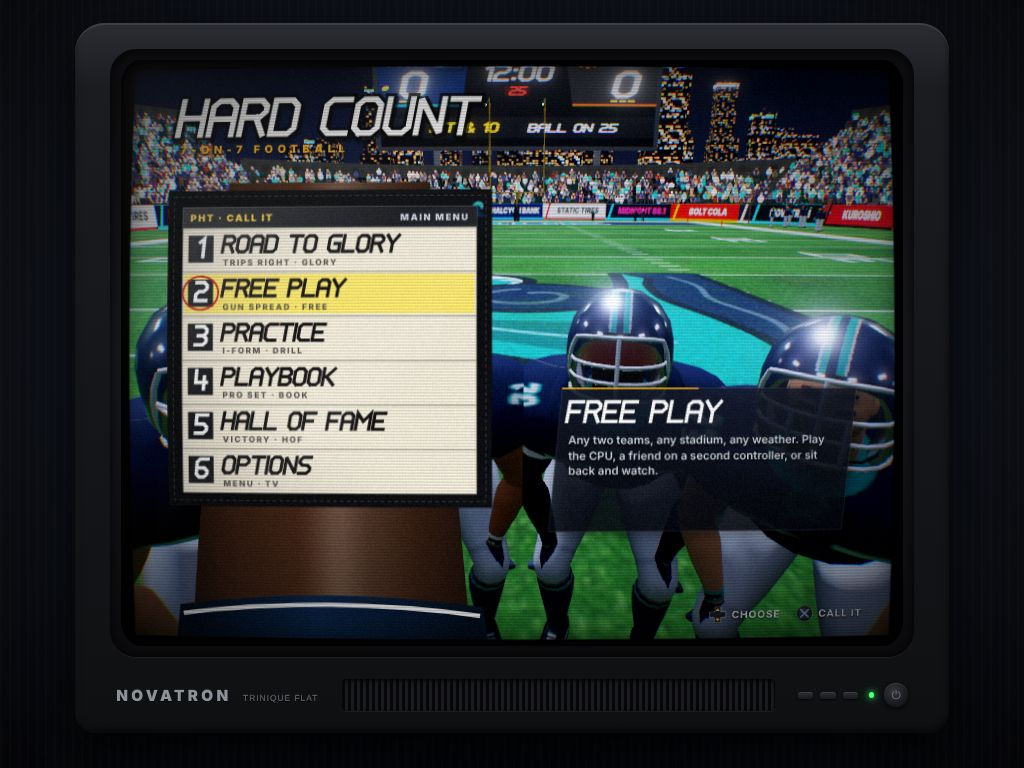
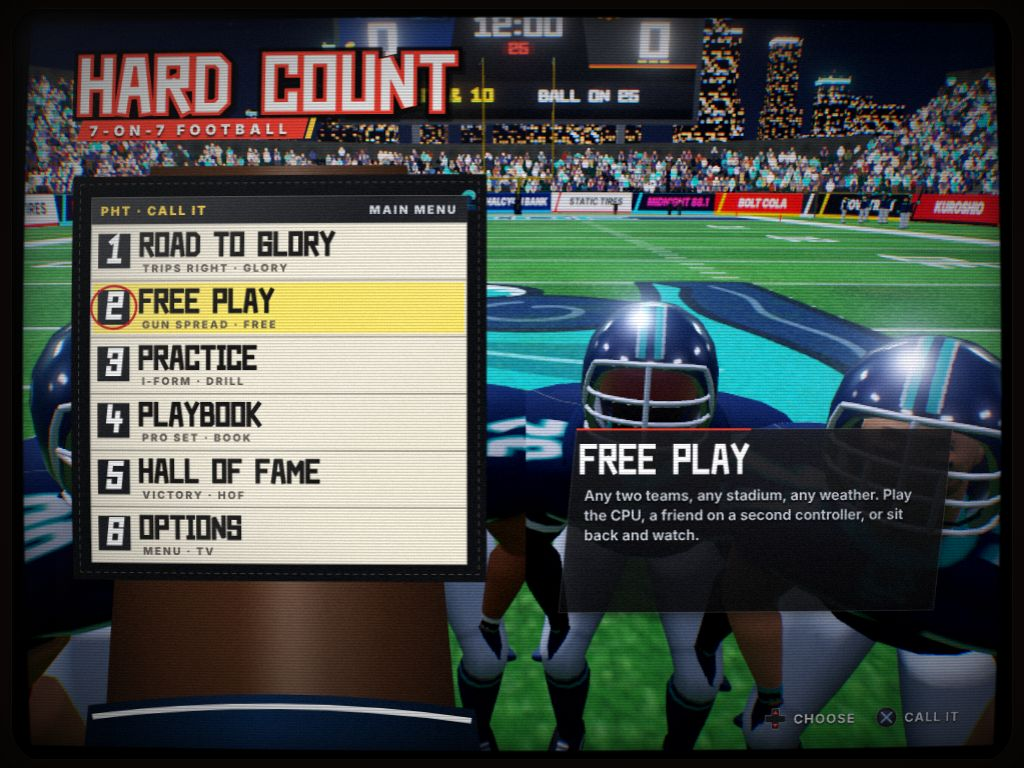
HARD COUNT: jersey-twill titles and red tags across the menus, rounded high-top, docs and screenshots for the new look
The Road to Glory creator's title goes in jersey twill under a red tag like
the main menu (tag() in the UI kit); the high-top haircut's top meets its
sides in a rounded edge instead of a box corner. README and DESIGN describe
the bare picture tube, the block face and red/gold, the builds (muscle,
pads, faces), the animation rules and the frame-stepping QA steps; every
screenshot retaken.

Claude-Session: https://claude.ai/code/session_0116zGsvDfHdybe5p86W6fiG

diff --git a/hardcount/src/screens/huddle.js b/hardcount/src/screens/huddle.js
@@ -5,7 +5,7 @@ import * as THREE from 'three';
 import { registerScreen, game, go } from '../main.js';
 import { input } from '../core/input.js';
 import { settings, store } from '../core/settings.js';
-import { C, vText, vWidth, text, hints, panel, padGlyph, usingPad, keyCap, paragraph, twill } from '../core/ui.js';
+import { C, vText, vWidth, text, hints, panel, padGlyph, usingPad, keyCap, paragraph, twill, tag } from '../core/ui.js';
 import { uiSound } from '../core/menu.js';
 import { clamp, easeOutBack, easeOutCubic } from '../core/util.js';
 import { getTeam, TEAMS } from '../data/teams.js';
@@ -170,12 +170,7 @@ registerScreen('huddle', () => {
       ctx.save();
       ctx.globalAlpha = 1 - out;
       twill(ctx, 'HARD COUNT', 64, 96, 50, { spacing: 2 });
-      // the tag under it, like a network bug
-      ctx.fillStyle = C.accent;
-      ctx.beginPath(); ctx.moveTo(62, 108); ctx.lineTo(268, 108); ctx.lineTo(262, 128); ctx.lineTo(56, 128); ctx.closePath(); ctx.fill();
-      ctx.fillStyle = C.gold;
-      ctx.fillRect(268, 108, 6, 20);
-      text(ctx, '7-ON-7 FOOTBALL', 70, 124, { size: 15, weight: 900, color: '#ffffff', spacing: 5 });
+      tag(ctx, '7-ON-7 FOOTBALL', 62, 108);
       ctx.restore();
       // the arm and the band, raised into view
       const ax = 52, ay = 168 + (1 - k) * 520 + out * 520;

diff --git a/hardcount/src/screens/career.js b/hardcount/src/screens/career.js
@@ -7,7 +7,7 @@ import * as THREE from 'three';
 import { registerScreen, game, go } from '../main.js';
 import { input } from '../core/input.js';
 import { settings } from '../core/settings.js';
-import { C, vText, vWidth, text, hints, panel, padGlyph, usingPad, keyCap, paragraph, roundRect, statBar } from '../core/ui.js';
+import { C, vText, vWidth, text, hints, panel, padGlyph, usingPad, keyCap, paragraph, roundRect, statBar, twill, tag } from '../core/ui.js';
 import { uiSound } from '../core/menu.js';
 import { clamp, easeOutCubic, easeOutBack, makeRng, hashString } from '../core/util.js';
 import { getTeam, HS_RIVALS, COLLEGES } from '../data/teams.js';
@@ -320,8 +320,8 @@ registerScreen('career', () => {
 
   function drawCreate(ctx) {
     const p = cr.p;
-    vText(ctx, 'ROAD TO GLORY', 64, 84, 38, { color: '#ffffff', weight: 0.17, outline: 3, outlineColor: 'rgba(0,0,0,0.75)', shadow: [3, 4, 'rgba(0,0,0,0.6)'] });
-    text(ctx, 'FRIDAY NIGHT · WHO ARE YOU?', 68, 108, { size: 13, weight: 900, color: C.accent, spacing: 4 });
+    twill(ctx, 'ROAD TO GLORY', 64, 86, 40, { spacing: 1 });
+    tag(ctx, 'FRIDAY NIGHT · WHO ARE YOU?', 62, 97, { size: 13 });
     // the panel
     const px = 560, py = 118, pw = 420;
     panel(ctx, px, py, pw, 376, { accentLen: 200, alpha: 0.95 });

diff --git a/hardcount/src/core/ui.js b/hardcount/src/core/ui.js
@@ -128,6 +128,21 @@ export function twill(ctx, str, x, y, size, opts = {}) {
   vText(ctx, str, x, y, size, { ...base, color: opts.color || '#ffffff', outline: size * 0.075, outlineColor: opts.trim || C.accent });
 }
 
+/** A red tag with white type under a title, like a network bug; returns its width. */
+export function tag(ctx, str, x, y, opts = {}) {
+  const size = opts.size || 15;
+  const w = measure(ctx, str, { size, weight: 900, spacing: 5 }) + 26;
+  const h = size + 7;
+  ctx.save();
+  ctx.fillStyle = opts.color || C.accent;
+  ctx.beginPath(); ctx.moveTo(x, y); ctx.lineTo(x + w, y); ctx.lineTo(x + w - 6, y + h); ctx.lineTo(x - 6, y + h); ctx.closePath(); ctx.fill();
+  ctx.fillStyle = C.gold;
+  ctx.beginPath(); ctx.moveTo(x + w + 2, y); ctx.lineTo(x + w + 8, y); ctx.lineTo(x + w + 2, y + h); ctx.lineTo(x + w - 4, y + h); ctx.closePath(); ctx.fill();
+  ctx.restore();
+  text(ctx, str, x + 8, y + h - 5, { size, weight: 900, color: '#ffffff', spacing: 5 });
+  return w;
+}
+
 /** Two sleeve stripes under a title: red, then a thin gold one. */
 export function stripes(ctx, x, y, w, opts = {}) {
   ctx.save();

diff --git a/hardcount/src/gfx/player/hair.js b/hardcount/src/gfx/player/hair.js
@@ -51,7 +51,10 @@ function thickness(style, lam, phi, x, y, z) {
       const F = flatBox();
       const len = Math.hypot(x, y, z);
       const dy = y / len, dr = Math.hypot(x, z * 0.92) / len;
-      const d = Math.min(dy > 0.02 ? F.top / dy : 9, dr > 0.02 ? F.side / dr : 9);
+      // a soft minimum of the two: the top meets the sides in a rounded edge, not a box corner
+      const a = dy > 0.02 ? F.top / dy : 9, b = dr > 0.02 ? F.side / dr : 9, k = 0.011;
+      const m = Math.min(a, b);
+      const d = m - k * Math.log(Math.exp(-(a - m) / k) + Math.exp(-(b - m) / k));
       return clamp(d - len, 0.004, 0.075) * sstep(-8, 22, phi) + 0.002;
     }
     case 'mohawk': return 0.001 + 0.042 * Math.exp(-((x / 0.017) ** 2)) * sstep(-25, 25, phi + (z < 0 ? 25 : 0));

diff --git a/hardcount/DESIGN.md b/hardcount/DESIGN.md
@@ -1,23 +1,35 @@
 # HARD COUNT — design notes and module contracts
 
 HARD COUNT is a 7-on-7 tackle football game in the style of a 2003–2007 console
-football game, played on the same NOVATRON CRT TV in a dark room as MIDNIGHT
-FREQUENCY. Full pads, real contact, real ball physics, laterals as a core
-mechanic. Plain ES modules + three.js r160 (`../vendor/three.module.js`), no
+football game, shown on the same CRT picture as MIDNIGHT FREQUENCY, with the
+set's cabinet taken off: a bare 4:3 tube as big as the window allows. It has
+its own identity on top: varsity block lettering, HARD COUNT red and broadcast
+gold. Full pads, real contact, real ball physics, laterals as a core mechanic. Plain ES modules + three.js r160 (`../vendor/three.module.js`), no
 build step, no art or audio files: everything is generated in code.
 
 ## Look and feel
 
-- **The TV.** The 3D picture renders at a CRT-ish internal resolution (480/600/720
+- **The picture.** The page (`index.html`, `style.css`) is only the tube: 4:3,
+  as tall as the window (letterboxed on wide screens), rounded tube corners,
+  curved glass with an edge shadow and a glare, the screen's light on the wall
+  behind it. The 3D picture renders at a CRT-ish internal resolution (480/600/720
   lines, 4:3) into an HDR target, then bloom and the CRT pass (curvature,
   aberration, ACES, grading, scanlines, aperture grille, snow, tearing, vignette).
-  The 2D UI is drawn into a 1024×768 canvas that goes *under the glass*, so menus
-  get the same curvature and scanlines. Screen changes are channel changes
-  (static bursts). See `src/core/renderer.js`, `src/main.js`.
+  The bloom chain and the final pass drop NaN/Inf texels, tested by their bit
+  pattern (`x == x` gets optimised away by some shader compilers). The 2D UI is
+  drawn into a 1024×768 canvas that goes *under the glass*, so menus get the same
+  curvature and scanlines. Screen changes are channel changes (static bursts).
+  See `src/core/renderer.js`, `src/main.js`.
 - **The UI kit** (`src/core/ui.js`, `src/core/font.js`): slanted smoked-glass
-  panels, amber `#ffb21e` / cyan `#46e8ff` accents, the chamfered italic stroke
-  font (`vText`) for titles and numbers, Bahnschrift-style body text, PlayStation
-  glyphs that switch to keyboard keycaps when the keyboard is in use.
+  panels in graphite, HARD COUNT red `#ff3a2c` / broadcast gold `#ffd23a`
+  accents, and for titles and numbers the varsity block stroke font (`vText`):
+  condensed, heavy, upright, square-cornered, the jersey and end zone lettering.
+  Titles go in jersey twill (`twill`: white letters, red tackle-twill border,
+  black edge) with a red network-bug `tag` under them; headers sit on two sleeve
+  `stripes`. Body text is a condensed sports gothic (Franklin Gothic on Windows,
+  Arial Narrow on macOS). PlayStation glyphs switch to keyboard keycaps when the
+  keyboard is in use. The resemblance to MIDNIGHT FREQUENCY is the picture, the
+  panels and the menu language; the type and the colours are HARD COUNT's own.
 - **Graphics target:** a good-looking 2005 console game, not a modern one.
   Chunky but well-proportioned bodies, glossy helmets catching the floodlights,
   real team colours, readable numbers, painted fields with wear, crowds that move,
@@ -34,7 +46,7 @@ build step, no art or audio files: everything is generated in code.
 
 ```
 hardcount/
-  index.html, style.css     the TV set (same as MIDNIGHT FREQUENCY)
+  index.html, style.css     the bare picture tube
   src/main.js               loop, screen manager, transitions, auto quality
   src/core/                 renderer, input, ui, font, menu, settings, util, envmap
   src/audio/                audio core, sfx, crowd, music engine + themes, voice
@@ -100,10 +112,38 @@ the `ACTIONS` with their durations and key moments (ball release, catch,
 contact). The sim owns timing: `A.action.t` is the time since the action began.
 Locomotion (walk → jog → run → sprint, backpedal, shuffle, carrying) is
 synthesised from `speed`, `moveAngle`, `accel`, `turnRate` and `effort`, with
-the stride phase driven by distance travelled so feet don't skate.
+the stride phase driven by distance travelled so feet don't skate:
 
-Budgets: ≤ 6 draw calls and ~6k triangles per player at `high`, ≤ 3 calls /
-~2k triangles at `low`; ≤ 24 bones; one ≤ 512² uniform atlas per player plus a
+- **Arms** swing fore and aft from the shoulder (`armFlex`): the upper arm's
+  twist follows its plane so the elbow hinge stays level and the forearm never
+  folds across the chest or flares out; bent tight at the front of the swing,
+  opening behind, the hands converging toward the sternum but never past it.
+- **Legs**: planted feet stay put in the world, yaw included; the swing foot
+  flies a keyed path (walk, jog, sprint, low shuffle, blended by gait): toe-off,
+  the heel recovering up under the hips, the knee driving through, the reach and
+  the paw back down under the body.
+- **Trunk**: leans into acceleration, banks into a real turn as much as the
+  lateral grip asks (from the travel direction's smoothed turn, with a deadzone,
+  never from heading jitter), drops on a hard cut; the head is stabilised.
+- **No arms through the body**: after the IK the animator pushes the elbows,
+  forearms, wrists and hands out of the jersey (`dims.torso`, the build's own
+  cross-sections from `torsoProfile`) and re-solves the arm, eased in by depth.
+
+**Builds.** `makeBuild(player)` reads height, weight, `look.bodyType` and three
+look fields every roster player has (drawn from the player's own seed, so they
+never shift names, ratings or ids; Road to Glory players pick the first two):
+`look.muscle` 0..1 (arm, leg, neck and chest girth, and the definition of the
+biceps, triceps, forearms and calves), `look.pads` 0..1 (slim skill pads → big
+lineman pads: width, depth and how tall the arch stands) and `look.face`
+`{ jaw, chin, nose, brow, cheek, len }` each −1..1 (the face below the brow only:
+the cranium the hair and helmet sit on never changes). The jersey sleeve is
+geometry, stretched over the pad cap down to a hem just below the pads
+(`SLEEVE_HEM`, shared with the painter); the collar is a V-neck under a visible
+neck. Heads have real facial thirds and a dense face grid; the painted features
+ride on the (λ, φ) grid so paint and shape always agree.
+
+Budgets: ≤ 6 draw calls and ~7.5k triangles per player at `high` (the face
+grid is most of the growth), ≤ 3 calls / ~2k triangles at `low`; ≤ 24 bones; one ≤ 512² uniform atlas per player plus a
 shared helmet decal per team. 14 players + 3 officials + sideline extras must
 hold 60 fps on a mid-range laptop at 600 lines.
 
@@ -246,3 +286,9 @@ the game, adds XP and texts, sims the rest of the week and advances the season.
   headless Chromium (software WebGL, ~7 fps: timing-sensitive steps should use
   `until`). `{ dualsense: true }` plugs in a virtual DualSense whose presses are
   held until the game has polled them; rumble lands in `window.__rumbles`.
+  `{ manual: true }` switches the game to deterministic frames, advanced with
+  `{ frames: n }` or filmed with `{ film: { n, every, prefix } }` (fixed 1/60 s
+  steps whatever the real frame rate: contact sheets of real plays). `VW` / `VH`
+  set the viewport size.
+- `screen=gallery&mode=stride&speed=10&n=7` lays one runner out as a filmstrip
+  across his stride; `mode=clip&action=…` does the same for any action.

diff --git a/hardcount/README.md b/hardcount/README.md
@@ -3,11 +3,14 @@
 *Seven a side. Full pads. Every lateral on the table.*
 
 A 7-on-7 tackle football game that looks and plays like a 2005 console game,
-shown on the same NOVATRON TRINIQUE FLAT CRT as MIDNIGHT FREQUENCY: curved
-glass, scanlines, bloom on the stadium lights, channel-change static between
-screens. Everything is generated in code: the players, the seven stadiums, the
-crowd, the band, the play art, the music. No art or audio files, no build step.
-It plays with a PS5 DualSense (any standard controller works, and so does the
+shown the way MIDNIGHT FREQUENCY is, on an old CRT, but with the cabinet taken
+off: a bare 4:3 picture tube as big as your window, with curved glass,
+scanlines, bloom on the stadium lights and channel-change static between
+screens. It has its own look on top: varsity block lettering (the jersey and
+end zone face), titles in jersey twill, HARD COUNT red and broadcast gold.
+Everything is generated in code: the players, the seven stadiums, the crowd,
+the band, the play art, the music. No art or audio files, no build step. It
+plays with a PS5 DualSense (any standard controller works, and so does the
 keyboard).
 
 ![A run play at Bayside Stadium](docs/hc-action.jpg)
@@ -40,8 +43,8 @@ on your wristband.
 | ![The huddle main menu](docs/hc-menu.jpg) | ![The coin toss at midfield](docs/hc-coin-toss.jpg) |
 
 - **Road to Glory.** Build a player (quarterback, running back, receiver, tight
-  end, linebacker, corner or safety; an archetype; name, number, skin, hair; your
-  high school) under the lights on a Friday night, then live a career off a flip
+  end, linebacker, corner or safety; an archetype; name, number, skin, hair,
+  build from lean to jacked, slim or big shoulder pads; your high school) under the lights on a Friday night, then live a career off a flip
   phone: a senior season in high school, signing day with the offers your stars
   earned, up to four years of college (declare after three), the Sevens League
   draft on TV, a pro career, and retirement into the Hall of Fame. Texts from
@@ -99,6 +102,11 @@ on your wristband.
   zone coverage, pass rush against pass protection, pursuit angles, broken
   tackles, gang tackles, fumbles, tipped passes, fatigue. CPU coordinators call
   plays by down, distance, score and clock.
+- **The players.** Every player is built from his height, weight and position
+  and his own look: how muscular he is, how big his pads are, the shape of his
+  jaw, chin, nose, brow and cheekbones. Jersey sleeves stretch over the pads,
+  arms pump fore and aft without ever crossing the body, legs drive under the
+  hips, bodies bank into real turns (and only real ones) and plant on a hard cut.
 - **The broadcast.** Score bug, yellow first-down line, network bug, closed
   captions from the booth, a PA announcer, a crowd that reacts to what happens
   (and to whose fans they are), a band, officials with flags and signals, a
@@ -152,7 +160,10 @@ node hardcount/tools/drive.mjs "screen=practice" script.json   # drive the real 
 `drive.mjs` steps are `{ key }`, `{ wait }`, `{ until: 'js', timeout }`,
 `{ eval: 'js' }`, `{ shot: 'name.png' }`, and with `{ dualsense: true }` first,
 a virtual DualSense: `{ pad: 'cross' }`, `{ stick: [lx, ly, rx, ry], hold }`
-(rumble requests are collected in `window.__rumbles`). URL shortcuts:
+(rumble requests are collected in `window.__rumbles`). `{ manual: true }` makes
+the frames deterministic from there on: `{ frames: n }` advances, `{ film: { n,
+every, prefix } }` shoots a contact sheet of whatever is playing. `VW=1600
+VH=900` sets the window size. URL shortcuts:
 `?screen=match&home=pht&away=det&qa=play` (straight to a first and ten),
 `qa=kick&kicking=home`, `screen=practice`, `screen=playbook`, `screen=gallery`
 (every animation), `screen=venueview` (the stadiums).

diff --git a/README.md b/README.md
@@ -7,7 +7,7 @@ install, no build step. Boots with a cinematic flyover of America's football tow
 and an original synthesized score.
 
 > **Also in this repo: [HARD COUNT](hardcount/README.md)** — 7-on-7 tackle football
-> on a 2005 CRT TV, played with a DualSense: Road to Glory (high school to the
+> on a bare 2005 CRT picture tube, played with a DualSense: Road to Glory (high school to the
 > Hall of Fame), Free Play, Practice, a chalkboard Playbook and every lateral on
 > the table. Windows: double-click **`hardcount.bat`**. Mac/Linux:
 > `python3 serve.py --open hardcount/`.
